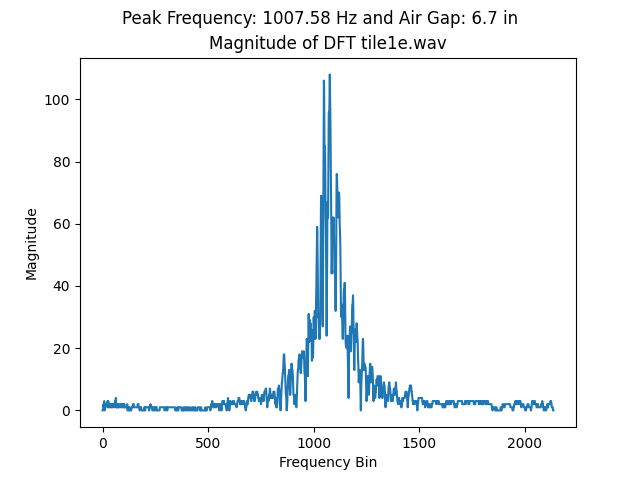
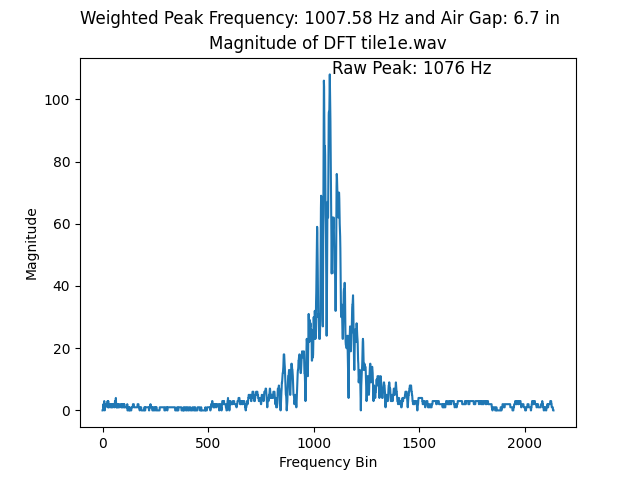
Updated Photos for Lab 7

Changed region(s): [[0.125, 0.0, 0.875, 0.0625], [0.5, 0.125, 0.7812, 0.1562]]

diff --git a/Lab 7 - Acoustic Analysis/source/cpe367_AcousticAnalysisPart3.py b/Lab 7 - Acoustic Analysis/source/cpe367_AcousticAnalysisPart3.py
@@ -111,8 +111,9 @@ def process_wav(fpath_wav_in):
     plt.plot(xList, dftList[:(len(sampleValues)//4)])
     plt.xlabel('Frequency Bin')
     plt.ylabel('Magnitude')
-    plt.suptitle(f'Peak Frequency: {round(peak_frequency, 2)} Hz and Air Gap: {round(air_gap, 2)} in')
+    plt.suptitle(f'Weighted Peak Frequency: {round(peak_frequency, 2)} Hz and Air Gap: {round(air_gap, 2)} in')
     plt.title(f'Magnitude of DFT {fpath_wav_in.split("/")[-1]}')
+    plt.text(max_frequency + 10 , maxMagnitude, f'Raw Peak: {round(max_frequency, 2)} Hz', fontsize=12, ha='left')
     # plt.show()
     plt.savefig(f'Lab 7 - Acoustic Analysis/source/wav/output/{fpath_wav_in.split("/")[-1].split(".")[0]}_DFT.png')
     # plt.savefig(f'wav/output/{fpath_wav_in.split("/")[-1].split(".")[0]}_DFT.png')
